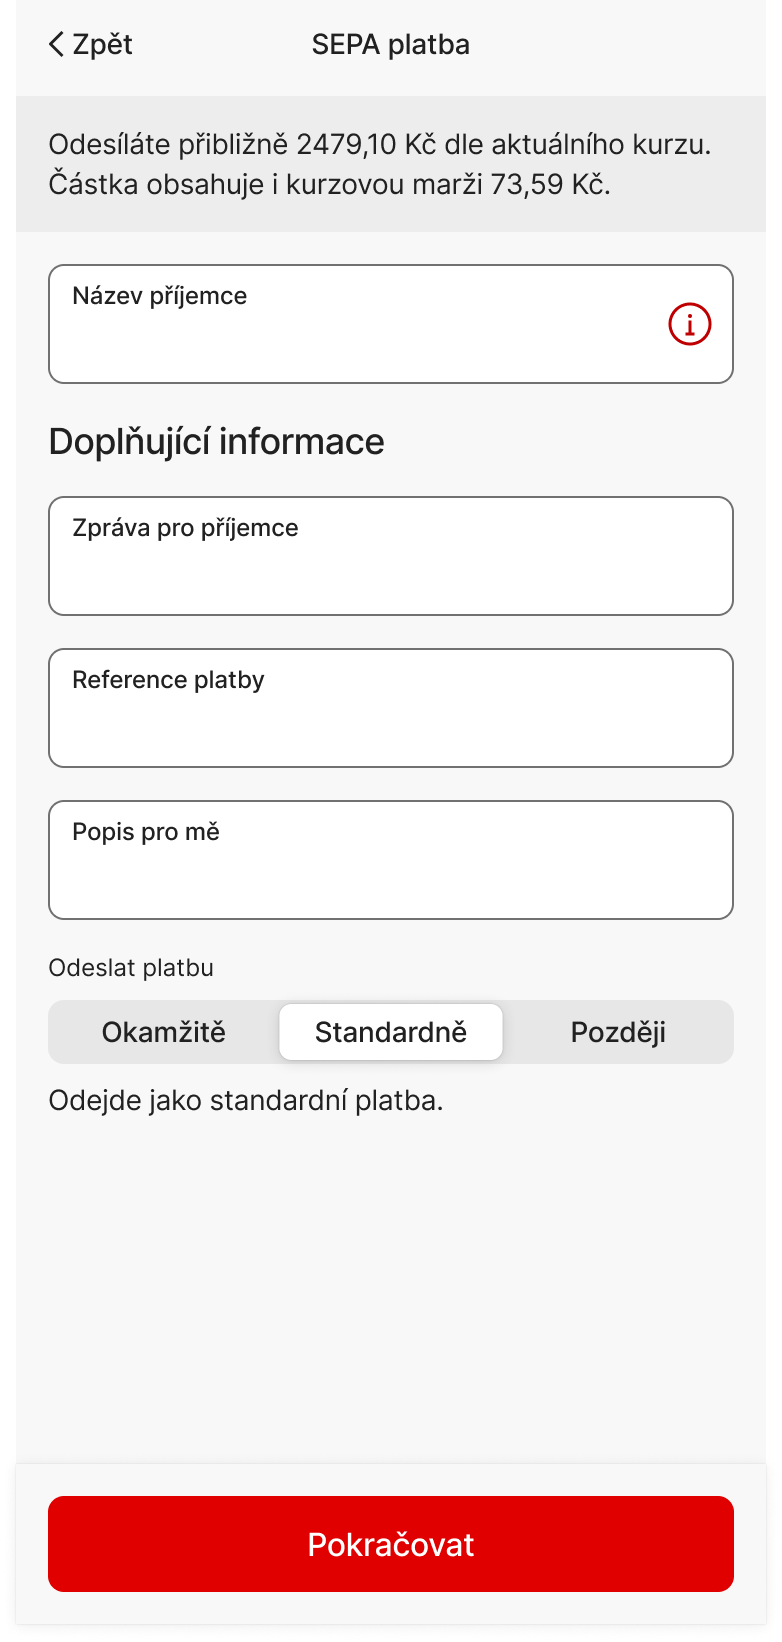
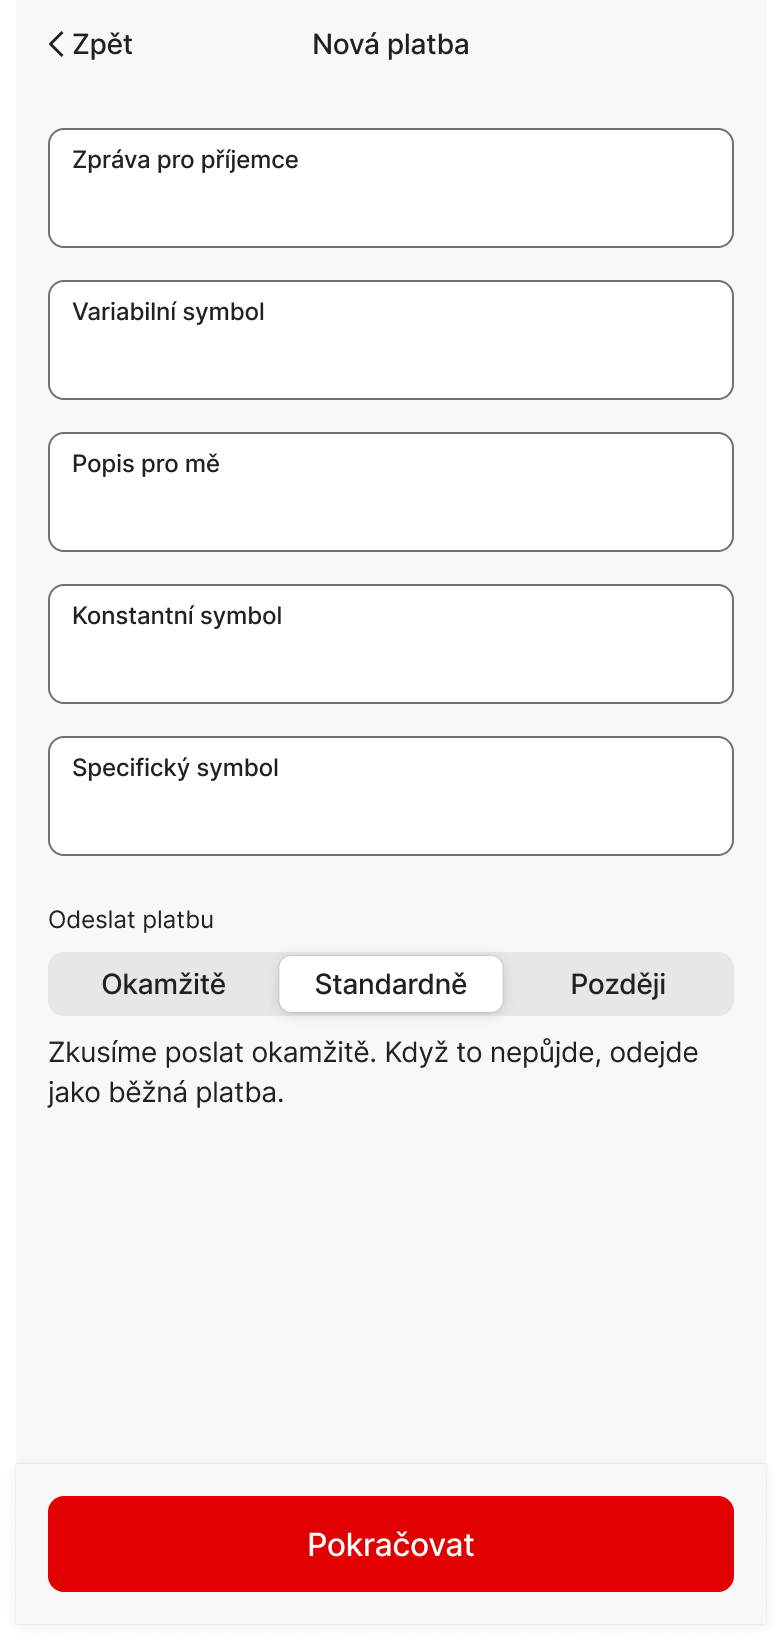
docs: reassess standard payment copy

diff --git a/Platby/Okamžité platby/index.html b/Platby/Okamžité platby/index.html
@@ -137,15 +137,15 @@
         <div class="note" style="margin:0 0 32px"><strong>Klíčový výsledek uživatelského testu:</strong><br><span style="color:var(--color-content-secondary)">Při segmentu „Co nejdříve“ a samostatném switchi „Okamžitá platba“ uživatelé nerozuměli rozdílu. Proto penalizujeme návrhy se dvěma závislými ovladači a preferujeme jeden výběr popsaný výsledkem.</span></div>
         <div class="variant-stack">
           <article class="variant">
-            <div class="variant-header"><div><div class="variant-kicker">Varianta 1</div><h3>Tři segmenty s vysvětlením</h3><p class="variant-summary">Okamžitě · Standardně · Později. Aktivní volba zobrazí doplňující vysvětlení nebo datum.</p></div><div class="score"><strong>17</strong><span>z 25 bodů</span></div></div>
+            <div class="variant-header"><div><div class="variant-kicker">Varianta 1</div><h3>Tři segmenty s vysvětlením</h3><p class="variant-summary">Okamžitě · Standardně · Později. Nové copy u hybridní volby výslovně říká, že se platba nejdřív zkusí odeslat okamžitě a teprve potom běžně.</p></div><div class="score"><strong>19</strong><span>z 25 bodů</span></div></div>
             <div class="variant-body"><div class="shots"><div class="shot-strip">
-              <button class="shot-btn" data-full="assets/varianta-1-01.png" aria-label="Zvětšit variantu 1, obrazovku 1"><img loading="lazy" src="assets/varianta-1-01.png?v=1" alt="Varianta 1 – segmenty Okamžitě, Standardně, Později"></button>
-              <button class="shot-btn" data-full="assets/varianta-1-02.png" aria-label="Zvětšit variantu 1, obrazovku 2"><img loading="lazy" src="assets/varianta-1-02.png?v=1" alt="Varianta 1 – standardní platba"></button>
+              <button class="shot-btn" data-full="assets/varianta-1-01.png?v=2" aria-label="Zvětšit variantu 1, obrazovku 1"><img loading="lazy" src="assets/varianta-1-01.png?v=2" alt="Varianta 1 – segmenty Okamžitě, Standardně a Později s novým vysvětlením"></button>
+              <button class="shot-btn" data-full="assets/varianta-1-02.png?v=2" aria-label="Zvětšit variantu 1, obrazovku 2"><img loading="lazy" src="assets/varianta-1-02.png?v=2" alt="Varianta 1 – Standardně s okamžitým pokusem a běžným fallbackem"></button>
               <button class="shot-btn" data-full="assets/varianta-1-03.png" aria-label="Zvětšit variantu 1, obrazovku 3"><img loading="lazy" src="assets/varianta-1-03.png?v=1" alt="Varianta 1 – později s datem"></button>
               <button class="shot-btn" data-full="assets/varianta-1-04.png" aria-label="Zvětšit variantu 1, obrazovku 4"><img loading="lazy" src="assets/varianta-1-04.png?v=1" alt="Varianta 1 – pozdější platba"></button>
               <button class="shot-btn" data-full="assets/varianta-1-05.png" aria-label="Zvětšit variantu 1, obrazovku 5"><img loading="lazy" src="assets/varianta-1-05.png?v=1" alt="Varianta 1 – pozdější platba s datem"></button>
             </div><div class="shot-count">5 dodaných obrazovek · klepnutím zvětšit</div></div>
-            <div class="assessment"><div class="pm"><h4>Plusy</h4><ul class="pm-list plus"><li>Všechny tři scénáře viditelné najednou.</li><li>Vysvětlení pod ovladačem snižuje nejistotu.</li><li>Přímý přístup bez dalšího kroku.</li></ul></div><div class="pm"><h4>Mínusy</h4><ul class="pm-list minus"><li>„Standardně“ popisuje mechanismus, přesto může platba odejít okamžitě.</li><li>Segment míchá rychlost zpracování a plánování data.</li><li>„Okamžitě“ a „Standardně“ vyžadují znalost fallbacku, kterou uživatelé nemusí mít.</li></ul></div><div class="fit"><h4>Vhodnost pro persony</h4><div class="fit-row"><span>Jana</span><span class="fit-dots" aria-label="2 z 5"><i class="fit-dot on"></i><i class="fit-dot on"></i><i class="fit-dot"></i><i class="fit-dot"></i><i class="fit-dot"></i></span></div><div class="fit-row"><span>Petr</span><span class="fit-dots" aria-label="5 z 5"><i class="fit-dot on"></i><i class="fit-dot on"></i><i class="fit-dot on"></i><i class="fit-dot on"></i><i class="fit-dot on"></i></span></div><div class="fit-row"><span>Eva</span><span class="fit-dots" aria-label="4 z 5"><i class="fit-dot on"></i><i class="fit-dot on"></i><i class="fit-dot on"></i><i class="fit-dot on"></i><i class="fit-dot"></i></span></div></div></div></div>
+            <div class="assessment"><div class="pm"><h4>Plusy</h4><ul class="pm-list plus"><li>Všechny tři scénáře jsou viditelné najednou.</li><li>Nová věta přesně vysvětluje okamžitý pokus i následný fallback.</li><li>Slovo „běžná“ je přístupnější než technické „standardní zpracování“.</li><li>Přímý přístup bez dalšího kroku.</li></ul></div><div class="pm"><h4>Mínusy</h4><ul class="pm-list minus"><li>Název „Standardně“ zůstává odborný a nepopisuje uživatelský záměr.</li><li>Okamžitě i Standardně mohou začít okamžitým odesláním; rozdíl je patrný až z pomocné věty.</li><li>Segment míchá způsob zpracování a plánování data.</li></ul></div><div class="fit"><h4>Vhodnost pro persony</h4><div class="fit-row"><span>Jana</span><span class="fit-dots" aria-label="3 z 5"><i class="fit-dot on"></i><i class="fit-dot on"></i><i class="fit-dot on"></i><i class="fit-dot"></i><i class="fit-dot"></i></span></div><div class="fit-row"><span>Petr</span><span class="fit-dots" aria-label="5 z 5"><i class="fit-dot on"></i><i class="fit-dot on"></i><i class="fit-dot on"></i><i class="fit-dot on"></i><i class="fit-dot on"></i></span></div><div class="fit-row"><span>Eva</span><span class="fit-dots" aria-label="4 z 5"><i class="fit-dot on"></i><i class="fit-dot on"></i><i class="fit-dot on"></i><i class="fit-dot on"></i><i class="fit-dot"></i></span></div></div></div></div>
           </article>
 
           <article class="variant">
@@ -174,7 +174,7 @@
         </div>
 
         <h3 style="font-size:24px;margin:40px 0 16px">Souhrnné skóre</h3>
-        <div class="matrix-wrap"><table><thead><tr><th>Varianta</th><th class="num">Srozumitelnost</th><th class="num">Rychlost</th><th class="num">Prevence chyb</th><th class="num">Pokrytí scénářů</th><th class="num">Naučitelnost</th><th class="num">Celkem</th></tr></thead><tbody><tr><td>1 · Tři segmenty + vysvětlení</td><td class="num">3</td><td class="num">4</td><td class="num">3</td><td class="num">4</td><td class="num">3</td><td class="num total">17</td></tr><tr><td>2 · Dva režimy + datum</td><td class="num">3</td><td class="num">4</td><td class="num">4</td><td class="num">4</td><td class="num">4</td><td class="num total">19</td></tr><tr><td>3 · Jedno pole + panel</td><td class="num">4</td><td class="num">5</td><td class="num">3</td><td class="num">5</td><td class="num">5</td><td class="num total">22</td></tr><tr><td>4 · Kalendář + switch</td><td class="num">2</td><td class="num">3</td><td class="num">2</td><td class="num">4</td><td class="num">2</td><td class="num total">13</td></tr><tr class="winner"><td><strong>5 · Jeden výběr, tři výsledky</strong></td><td class="num">5</td><td class="num">5</td><td class="num">4</td><td class="num">5</td><td class="num">4</td><td class="num total">23</td></tr></tbody></table></div>
+        <div class="matrix-wrap"><table><thead><tr><th>Varianta</th><th class="num">Srozumitelnost</th><th class="num">Rychlost</th><th class="num">Prevence chyb</th><th class="num">Pokrytí scénářů</th><th class="num">Naučitelnost</th><th class="num">Celkem</th></tr></thead><tbody><tr><td>1 · Tři segmenty + vysvětlení</td><td class="num">4</td><td class="num">4</td><td class="num">4</td><td class="num">4</td><td class="num">3</td><td class="num total">19</td></tr><tr><td>2 · Dva režimy + datum</td><td class="num">3</td><td class="num">4</td><td class="num">4</td><td class="num">4</td><td class="num">4</td><td class="num total">19</td></tr><tr><td>3 · Jedno pole + panel</td><td class="num">4</td><td class="num">5</td><td class="num">3</td><td class="num">5</td><td class="num">5</td><td class="num total">22</td></tr><tr><td>4 · Kalendář + switch</td><td class="num">2</td><td class="num">3</td><td class="num">2</td><td class="num">4</td><td class="num">2</td><td class="num total">13</td></tr><tr class="winner"><td><strong>5 · Jeden výběr, tři výsledky</strong></td><td class="num">5</td><td class="num">5</td><td class="num">4</td><td class="num">5</td><td class="num">4</td><td class="num total">23</td></tr></tbody></table></div>
       </div>
     </section>
 

diff --git a/index.html b/index.html
@@ -475,7 +475,7 @@
           </svg>
         </a>
         <div class="divider file-divider"></div>
-        <a class="item" href="Platby/Okam%C5%BEit%C3%A9%20platby/index.html?k=4c129f69f551195cbc5e8b57cc5a0975b6efa1e8510573524d11df03c7d010c6" data-name="Okamžité platby" data-modified="1785481125000">
+        <a class="item" href="Platby/Okam%C5%BEit%C3%A9%20platby/index.html?k=4c129f69f551195cbc5e8b57cc5a0975b6efa1e8510573524d11df03c7d010c6" data-name="Okamžité platby" data-modified="1785481476000">
           <span class="item-name">Okamžité platby</span>
           <span class="badge-new" style="display:none">Nová verze</span>
           <svg class="chevron" viewBox="0 0 24 24" fill="none" stroke="currentColor" stroke-width="2" stroke-linecap="round" stroke-linejoin="round">
